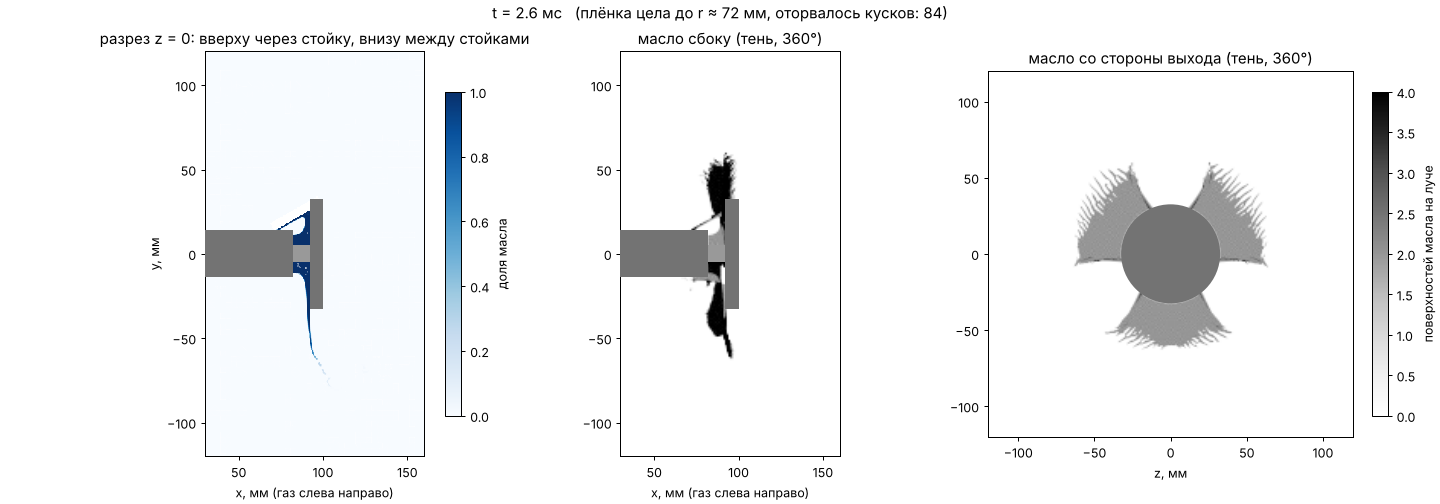
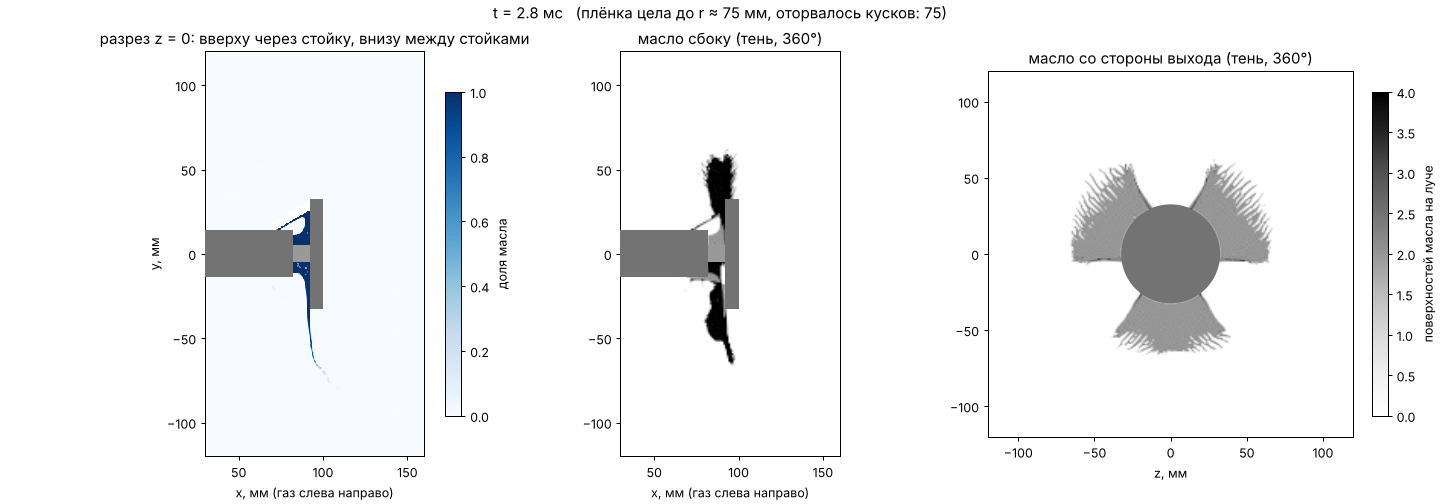
docs: strut case animation up to 2.8 ms (final)
Claude-Session: https://claude.ai/code/session_019Zg1MVAei3tLtgNLUTjX6Z

diff --git a/docs/STATUS.md b/docs/STATUS.md
@@ -53,7 +53,7 @@
 | `case-rim/` | как `case-throat` | **`sprayCloud`**: капли ~1 мм с кромки диска (r 33–35 мм, 80–95°, 25 м/с), дробление Reitz–Diwakar; газ — смесь `pyroGas` + `oil` (пар, Y = 0), решатель `multicomponentFluid`; масло — `liquid` | проверен у меня; **пользователь посчитал** — 3.41 кПа и 391 °C совпали с моими |
 | `nozzle-vof/` | только форсунка: струя ⌀20 → диск ⌀65, газ 55 м/с с закруткой; осесимметричный VOF (`incompressibleVoF`), 107 тыс. ячеек | плёнка считается, а не задаётся | **посчитан у меня** (12 мс, ~2.5 ч на 4 ядрах): у кромки ~85°, 23 м/с, 1.6 мм — подтверждает допущения `case-rim`; GIF `docs/nozzle_vof_sheet.gif` |
 | `nozzle-vof-3d/` | то же в 3D: четверть 90° с циклическими гранями, масло из отверстия за 1 см до диска, адаптивная сетка 0.4 мм у поверхности масла (до 3 млн ячеек), старт от стационарного газа (`gasInit/`) | разрыв плёнки считается | проверен у меня до 1.2 мс (цепочка `Allrun` целиком); полный расчёт 7 мс — у пользователя, ~8–15 ч на 8 ядрах; см. `nozzle-vof-3d/README.md` |
-| `nozzle-vof-strut/` | ножка ⌀10 + 3 стойки, полный круг, кубы без подгонки к стенкам | плёнка и стойки | посчитан у меня до 2+ мс: плёнка трилистником, за стойками пусто, ком у стойки; `docs/nozzle_strut_sheet.gif` |
+| `nozzle-vof-strut/` | ножка ⌀10 + 3 стойки, полный круг, кубы без подгонки к стенкам | плёнка и стойки | посчитан у меня до 2.8 мс: плёнка трилистником, за стойками пусто, ком у стойки; `docs/nozzle_strut_sheet.gif` |
 | `case-rim-reverse/` | как `case-rim` | фланец развёрнут на 180° вокруг оси лансета: диск **против потока**, x 2.076–2.084, `direction (-1 0 0)` | **не прогонялся**; пользователь собирался запустить |
 
 **Вход укороченных кейсов:**

diff --git a/nozzle-vof-strut/README.md b/nozzle-vof-strut/README.md
@@ -32,7 +32,7 @@ cd $FOAM_RUN/CFD-Venturi/nozzle-vof-strut && ./Allrun
 
 **Время.** У меня на 4 ядрах: 2 мс за ~6 ч. После ~1.7 мс сетка упирается в 3 млн ячеек, и шаг стоит ~8 с. На 8 ядрах до 3–4 мс — ориентировочно 8–12 ч.
 
-## Результат (у меня, до 2–3 мс; масло пущено с 0.1 мс)
+## Результат (у меня, до 2.8 мс; масло пущено с 0.1 мс)
 - **Плёнка сходит трилистником**: три лепестка между стойками, за каждой стойкой пустой клин ~30–40°.
 - **Края лепестков утолщены**: там собираются будущие жгуты.
 - На разрезе через стойку масло упирается в стойку и **копится комом у её основания**.
